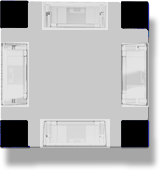
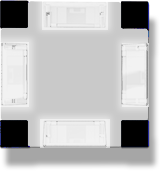
Adding ability to change in-view out-view colors based on a CubePalette

diff --git a/unity/Cozmo/Assets/SharedAssets/Scripts/UI/MinigameUI/ShowCozmoCubeSlide.cs b/unity/Cozmo/Assets/SharedAssets/Scripts/UI/MinigameUI/ShowCozmoCubeSlide.cs
@@ -12,17 +12,17 @@ public class ShowCozmoCubeSlide : MonoBehaviour {
   private Image _CubePrefab;
 
   [SerializeField]
-  private Sprite _CubeOff;
-
-  [SerializeField]
-  private Sprite _CubeOn;
-
-  [SerializeField]
   private AnkiTextLabel _ShowCozmoCubesLabel;
 
   private Image[] _CubeImages;
 
-  public void Initialize(int numCubesToShow) {
+  private Sprite _OutOfViewColor;
+  private Sprite _InViewColor;
+
+  public void Initialize(int numCubesToShow, Cozmo.CubeColor outOfViewColor, Cozmo.CubeColor inViewColor) {
+    _InViewColor = inViewColor.uiSprite;
+    _OutOfViewColor = outOfViewColor.uiSprite;
+
     CreateCubes(numCubesToShow);
     LightUpCubes(0);
     _ShowCozmoCubesLabel.text = Localization.GetWithArgs(LocalizationKeys.kMinigameLabelShowCubes,
@@ -31,7 +31,7 @@ public class ShowCozmoCubeSlide : MonoBehaviour {
 
   public void LightUpCubes(int numberCubes) {
     for (int i = 0; i < _CubeImages.Length; i++) {
-      _CubeImages[i].sprite = (i < numberCubes) ? _CubeOn : _CubeOff;
+      _CubeImages[i].sprite = (i < numberCubes) ? _InViewColor : _OutOfViewColor;
     }
   }
 

diff --git a/unity/Cozmo/Assets/SharedAssets/Scripts/SharedStates/InitialCubesState.cs b/unity/Cozmo/Assets/SharedAssets/Scripts/SharedStates/InitialCubesState.cs
@@ -40,14 +40,14 @@ public class InitialCubesState : State {
       bool isValidCube = lightCube.Value.MarkersVisible;
 
       if (isValidCube && numValidCubes < _CubesRequired) { 
-        lightCube.Value.SetLEDs(Color.white);
+        lightCube.Value.SetLEDs(Cozmo.CubePalette.InViewColor.lightColor);
         numValidCubes++;
         if (!_Game.CubesForGame.Contains(lightCube.Value)) {
           _Game.CubesForGame.Add(lightCube.Value);
         }
       }
       else {
-        lightCube.Value.TurnLEDsOff();
+        lightCube.Value.SetLEDs(Cozmo.CubePalette.OutOfViewColor.lightColor);
         if (_Game.CubesForGame.Contains(lightCube.Value)) {
           _Game.CubesForGame.Remove(lightCube.Value);
         }
@@ -75,6 +75,12 @@ public class InitialCubesState : State {
 
   public override void Exit() {
     base.Exit();
+
+    foreach (KeyValuePair<int, LightCube> lightCube in _CurrentRobot.LightCubes) {
+      if (!_Game.CubesForGame.Contains(lightCube.Value)) {
+        lightCube.Value.TurnLEDsOff();
+      }
+    }
 
     _Game.SharedMinigameView.HideGameStateSlide();
   }

diff --git a/unity/Cozmo/Assets/SharedAssets/Scripts/UI/CubePalette.cs b/unity/Cozmo/Assets/SharedAssets/Scripts/UI/CubePalette.cs
@@ -1,0 +1,52 @@
+using UnityEngine;
+using System.Collections;
+
+namespace Cozmo {
+  [CreateAssetMenu]
+  public class CubePalette : ScriptableObject {
+
+    private static CubePalette _Instance;
+
+    public static CubePalette Instance {
+      get {
+        if (_Instance == null) {
+          _Instance = Resources.Load<CubePalette>("Prefabs/UI/CubePalette");
+        }
+        return _Instance;
+      }
+    }
+
+    [SerializeField]
+    private CubeColor _OffColor;
+
+    public static CubeColor OffColor {
+      get {
+        return Instance._OffColor;
+      }
+    }
+
+    [SerializeField]
+    private CubeColor _InViewColor;
+
+    public static CubeColor InViewColor {
+      get {
+        return Instance._InViewColor;
+      }
+    }
+
+    [SerializeField]
+    private CubeColor _OutOfViewColor;
+
+    public static CubeColor OutOfViewColor {
+      get {
+        return Instance._OutOfViewColor;
+      }
+    }
+  }
+
+  [System.Serializable]
+  public class CubeColor {
+    public Sprite uiSprite;
+    public Color lightColor;
+  }
+}

diff --git a/unity/Cozmo/Assets/SharedAssets/Scripts/UI/MinigameUI/SharedMinigameView.cs b/unity/Cozmo/Assets/SharedAssets/Scripts/UI/MinigameUI/SharedMinigameView.cs
@@ -393,7 +393,7 @@ namespace Cozmo {
       public ShowCozmoCubeSlide ShowCozmoCubesSlide(int numCubesRequired) {
         GameObject slideObject = ShowWideGameStateSlide(UIPrefabHolder.Instance.InitialCubesSlide, "ShowCubesSlide");
         ShowCozmoCubeSlide cubeSlide = slideObject.GetComponent<ShowCozmoCubeSlide>();
-        cubeSlide.Initialize(numCubesRequired);
+        cubeSlide.Initialize(numCubesRequired, Cozmo.CubePalette.OutOfViewColor, Cozmo.CubePalette.InViewColor);
         return cubeSlide;
       }
 
